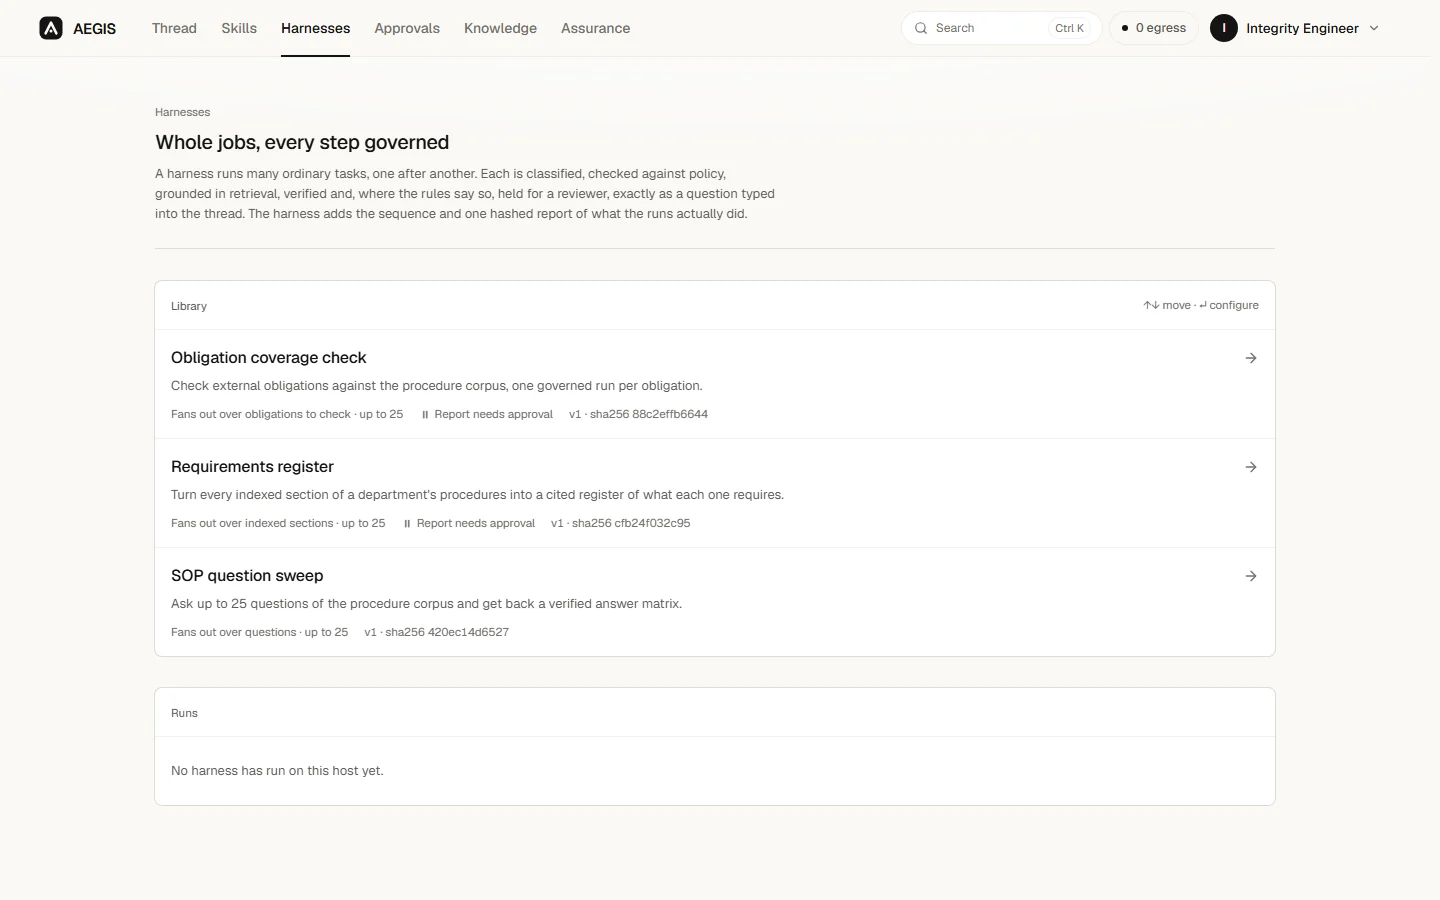
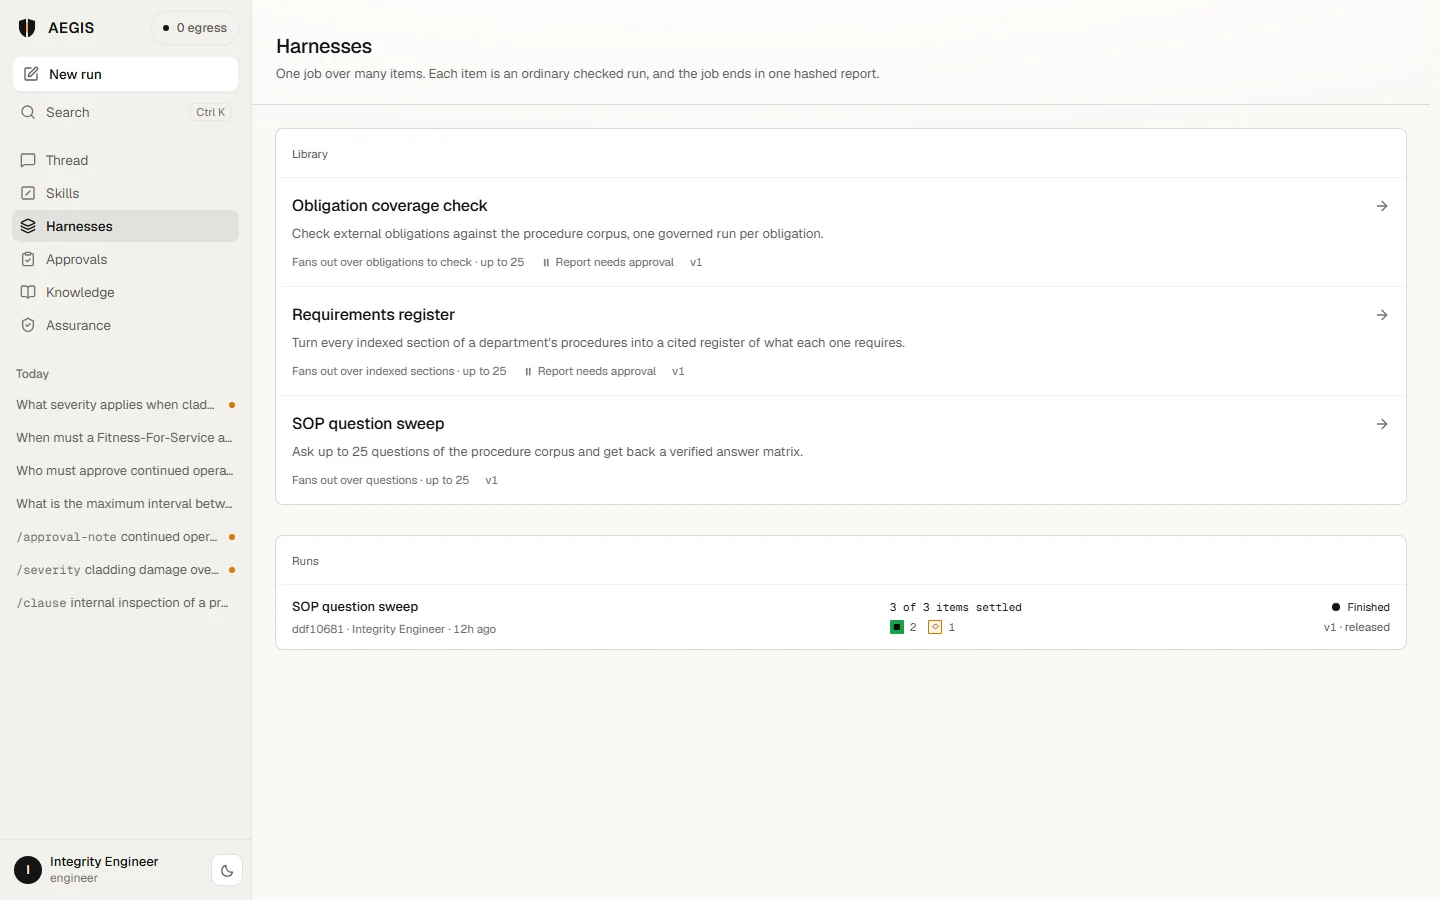
Retake the README screenshots on the sidebar workbench
#5 replaced the top tabs with a sidebar workbench and redrew the landing
page, so the screenshots in this branch showed a layout that no longer
exists. Retaken from the curated demo instance, view-only: no run was
created, no sandbox code run, no chain export triggered.

README follows #5 too: the workbench layout, citation_verification
holding answers whose citations lead nowhere, --timeout-keep-alive 75 in
the manual start command, and 435 tests. The Assurance screen now folds
the host's network interfaces away, so it is shown whole.

diff --git a/README.md b/README.md
@@ -16,9 +16,9 @@
 
 <div align="center">
 
-<img src="docs/assets/readme/screenshot-landing.webp" alt="The AEGIS landing page: 'Local is not enough. So prove the rest.', with a replay of a recorded run underneath." width="900">
+<img src="docs/assets/readme/screenshot-landing.webp" alt="The AEGIS landing page: 'Answers you can prove.', with the workbench window below the headline, ready to play a recorded run." width="900">
 
-<sub>The public page replays a real recorded run, straight from its audit records.</sub>
+<sub>The public page plays one real recorded run as you scroll: every word and figure in it is the run's own.</sub>
 
 </div>
 
@@ -63,7 +63,7 @@ Everything in that diagram runs on one machine. Inference is reached over loopba
 <img src="docs/assets/readme/flow-understand.svg" alt="Documents enter, are parsed or rasterised and read, normalised, chunked, embedded locally and stored as evidence units carrying full provenance." width="100%">
 </div>
 
-A PDF is inspected **page by page**. Pages with a text layer are parsed directly. Pages without one (a scan, a photographed report) are rasterised and read by the local vision model in small batches, and a page the vision model returns empty falls back to local Tesseract OCR. Every page becomes its own citable evidence item (`[V1]`, `[V2]` …) that knows its document, page number and source hash. The verifier refuses an answer that attributes a `[V…]` citation to a different page than the one it came from.
+A PDF is inspected **page by page**. Pages with a text layer are parsed directly. Pages without one (a scan, a photographed report) are rasterised and read by the local vision model in small batches, and a page the vision model returns empty falls back to local Tesseract OCR. Every page becomes its own citable evidence item (`[V1]`, `[V2]` …) that knows its document, page number and source hash. The verifier refuses an answer that attributes a `[V…]` citation to a different page than the one it came from, and holds any answer with a citation that leads to no evidence the run recorded.
 
 ### 02 / DECIDE
 
@@ -99,35 +99,35 @@ Every record in `storage/logs/audit.jsonl` carries the hash of the one before it
 
 ## See AEGIS in action
 
-Real screens from a local instance on a CPU-only Windows laptop, using the synthetic demo corpus and `qwen2.5:3b`.
+Real screens from a local instance on a CPU-only Windows laptop, running the synthetic demo corpus.
 
 <div align="center">
 
-<img src="docs/assets/readme/screenshot-thread-answer.webp" alt="The thread: a question about inspection intervals, the run's stages with timings and model usage, five of five checks passed, and a two-sentence answer citing S1." width="900">
+<img src="docs/assets/readme/screenshot-thread-answer.webp" alt="The workbench: a sidebar of places and runs, and a /clause run delivered in 39.6 s with 4 of 4 checks passed and its answer cited to SOP-INS-014 section 2.2." width="900">
 
-<sub><b>Thread</b> — ask in plain language and watch the run: classification, retrieval, the model and its token counts, every check, then an answer cited to the section it came from.</sub>
+<sub><b>Thread</b> — ask in plain language, or call a skill with <code>/</code>. The answer comes back cited to the section it came from, with its checks, timings and model usage one click away.</sub>
 
 </div>
 
 <table>
 <tr>
-<td width="50%"><img src="docs/assets/readme/screenshot-thread-deliverable.webp" alt="A deliverable run held for review, with Sources, Document and Grounding checks failed in red." width="100%"><sub><b>Held, honestly</b> — a drafted approval note whose checks failed is shown failing and held; nothing is released on the model's word.</sub></td>
-<td width="50%"><img src="docs/assets/readme/screenshot-approvals.webp" alt="Approval queue with the held run, the rules that held it, the withheld DOCX with its SHA-256, and Approve or Reject." width="100%"><sub><b>Approvals</b> — why it was held, the withheld file and its hash, and a decision recorded against the reviewer.</sub></td>
+<td width="50%"><img src="docs/assets/readme/screenshot-thread-deliverable.webp" alt="An /approval-note run held for review: 1 of 5 checks failed, a cited draft, and the DOCX withheld with its SHA-256." width="100%"><sub><b>Held</b> — a drafted approval note that failed a check is held, its DOCX withheld and hashed; nothing is released on the model's word.</sub></td>
+<td width="50%"><img src="docs/assets/readme/screenshot-approvals.webp" alt="Approval queue: three held runs, why one was held (restricted evidence, failed verification), its cited deliverable and each check." width="100%"><sub><b>Approvals</b> — why each run was held, what it would release, every check, and a decision recorded against the reviewer.</sub></td>
 </tr>
 <tr>
-<td><img src="docs/assets/readme/screenshot-skills.webp" alt="Skills screen listing built-in skills such as /approval-note and /clause, and a form to add one." width="100%"><sub><b>Skills</b> — saved instructions called with <code>/</code> in the thread; each run records which skill version shaped it.</sub></td>
-<td><img src="docs/assets/readme/screenshot-harnesses.webp" alt="Harness library: obligation coverage check, requirements register, SOP question sweep." width="100%"><sub><b>Harnesses</b> — whole jobs that fan out into many governed runs and return one hashed report.</sub></td>
+<td><img src="docs/assets/readme/screenshot-skills.webp" alt="Skills: the five built-in skills, /approval-note, /clause, /handover, /remaining-life and /severity." width="100%"><sub><b>Skills</b> — saved instructions called with <code>/</code> in the thread; each run records which skill version shaped it.</sub></td>
+<td><img src="docs/assets/readme/screenshot-harnesses.webp" alt="Harnesses: the library of three jobs, and a finished SOP question sweep with 3 of 3 items settled." width="100%"><sub><b>Harnesses</b> — one job over many items; each item is an ordinary checked run, and the job ends in one hashed report.</sub></td>
 </tr>
 <tr>
-<td><img src="docs/assets/readme/screenshot-sandbox.webp" alt="Sandbox running a corrosion-rate script under a Windows Job Object, with exit code, peak memory, CPU time and blocked network attempts." width="100%"><sub><b>Sandbox</b> — run code under this host's limits and see what it measured, or which rule refused it.</sub></td>
-<td><img src="docs/assets/readme/screenshot-audit.webp" alt="Audit screen: server and browser both recompute 110 records to the same head hash." width="100%"><sub><b>Audit</b> — the chain recomputed by the server and by your browser, which must agree.</sub></td>
+<td><img src="docs/assets/readme/screenshot-sandbox.webp" alt="Sandbox: limits enforced by a Windows Job Object, a corrosion-rate payload, and the attacks it must stop." width="100%"><sub><b>Sandbox</b> — run code under this host's limits, or fire the attacks it must stop, and see what it measured or which rule refused it.</sub></td>
+<td><img src="docs/assets/readme/screenshot-audit.webp" alt="Audit: 854 records recompute on the server to one head hash, with a browser check one click away." width="100%"><sub><b>Audit</b> — every task, model call, decision and sign-in, hash-linked; recomputed by the server and, on demand, by your browser.</sub></td>
 </tr>
 </table>
 
 <div align="center">
-<img src="docs/assets/readme/screenshot-security.webp" alt="Assurance screen showing zero non-loopback connections observed from the workbench's own processes." width="900">
+<img src="docs/assets/readme/screenshot-security.webp" alt="Assurance: egress measured at zero, containment tested on demand, and ten actions no role can take." width="900">
 
-<sub><b>Assurance</b> — egress as measured from the workbench's own process tree, not asserted.</sub>
+<sub><b>Assurance</b> — what the host measured (egress), what it tested (containment) and what it is configured to allow (policy), each labelled as which.</sub>
 </div>
 
 ---
@@ -137,7 +137,7 @@ Real screens from a local instance on a CPU-only Windows laptop, using the synth
 | Capability | What is actually implemented |
 |---|---|
 | **Local inference** | Ollama over loopback, enforced to `127.0.0.1`; six models declared in `config/models.yaml` |
-| **Chat-first thread** | One thread for questions, calculations and deliverables; live stage board, token streaming, per-run model choice, run history |
+| **Workbench** | One thread for questions, calculations and deliverables in a sidebar workbench with every run listed; token streaming, per-run model choice, run transcript |
 | **Multimodal ingestion** | Per-page PDF inspection, PyMuPDF rasterisation, batched vision reading with Tesseract fallback, XLSX/DOCX/CSV parsing |
 | **Retrieval** | Local embeddings with cosine similarity, BM25 lexical fallback, department and classification isolation before ranking |
 | **Task analysis** | Type, complexity, sensitivity and capability requirements from `config/classification.yaml`; a run is raised to the class of the evidence it reads |
@@ -145,7 +145,7 @@ Real screens from a local instance on a CPU-only Windows laptop, using the synth
 | **Skills** | Saved, versioned instructions invoked with `/`; five built in under `config/skills/`, more added from the UI |
 | **Harnesses** | Multi-run jobs (obligation coverage, requirements register, SOP question sweep) with one aggregated, hashed report |
 | **Constrained execution** | AST validation plus POSIX rlimits, a macOS memory watchdog, or a Windows Job Object; socket neutralisation |
-| **Verification** | Claims traced to evidence, page citations checked against their pages, asserted figures recomputed |
+| **Verification** | Claims traced to evidence, every citation checked to lead somewhere, page citations checked against their pages, asserted figures recomputed |
 | **Policy gateway** | Default-deny tool and path checks, classification-aware egress rules, approval requirements |
 | **Human approval** | Deliverables held until a role holding `approval.decide` signs; reviewer and reason recorded |
 | **Deliverables** | DOCX, XLSX, PPTX and Markdown, generated locally and hashed |
@@ -266,11 +266,11 @@ python scripts/seed_demo_data.py
 - **macOS and Windows:** start them yourself in two terminals:
 
 ```bash
-python -m uvicorn backend.api.main:app --host 127.0.0.1 --port 8000
+python -m uvicorn backend.api.main:app --host 127.0.0.1 --port 8000 --timeout-keep-alive 75
 cd frontend && npm run build && npm start
 ```
 
-Then open **http://127.0.0.1:3000**. The API listens on **127.0.0.1:8000**. To run the API on another port, set `WORKBENCH_API_URL` before `npm run build`, because the proxy target is fixed at build time.
+Then open **http://127.0.0.1:3000**. The API listens on **127.0.0.1:8000**; `--timeout-keep-alive 75` keeps it from closing connections the web proxy is about to reuse. To run the API on another port, set `WORKBENCH_API_URL` before `npm run build`, because the proxy target is fixed at build time.
 
 **Seeded accounts:** `operator`, `engineer`, `reviewer`, `auditor` and `admin`, all with the password `workbench`. That password is `security.seed_user_password` in `config/app.yaml`; change it before any real deployment. The demo script lists what each role can see and do.
 
@@ -300,7 +300,7 @@ frontend/
   shared/         design-system controls, data display and motion primitives
 scripts/          run.sh, seed_demo_data.py, demo_e2e.py, audit_tool.py, fixture capture
 sample_data/      the synthetic SOP corpus, records and scanned reports
-tests/            428 tests: security, sandbox, queue, evidence, verification, harnesses, telemetry
+tests/            435 tests: security, sandbox, queue, evidence, verification, harnesses, telemetry
 docs/             DEMO, USE-CASES, RUNTIME-ENVIRONMENT, design notes, README assets
 ```
 
@@ -329,12 +329,12 @@ These are stated plainly, because they affect whether this is right for your dep
 - [x] Per-page multimodal ingestion: rasterisation, batched vision reading, OCR fallback
 - [x] Retrieval with provenance-preserving citations and lexical fallback
 - [x] Sandboxed execution with static validation and OS limits on Linux, macOS and Windows
-- [x] Verification engine: evidence tracing, page-citation checks, figure recomputation
+- [x] Verification engine: evidence tracing, citation and page-citation checks, figure recomputation
 - [x] Default-deny policy gateway with classification-aware rules
 - [x] Human approval gate with role separation and recorded reviewer
 - [x] Hash-chained audit log, verified on the server and in the browser
 - [x] Deliverable generation: DOCX, XLSX, PPTX, Markdown
-- [x] Chat-first thread with live stage board and token streaming
+- [x] Sidebar workbench: one thread, every run listed, token streaming
 - [x] Skills and multi-run harnesses
 - [x] Model, retrieval and sandbox transparency screens
 - [ ] Permission-derived navigation, so a role sees only what it may reach
